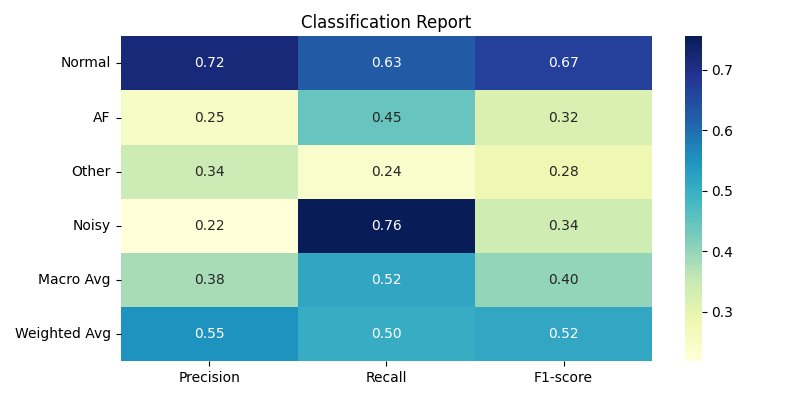
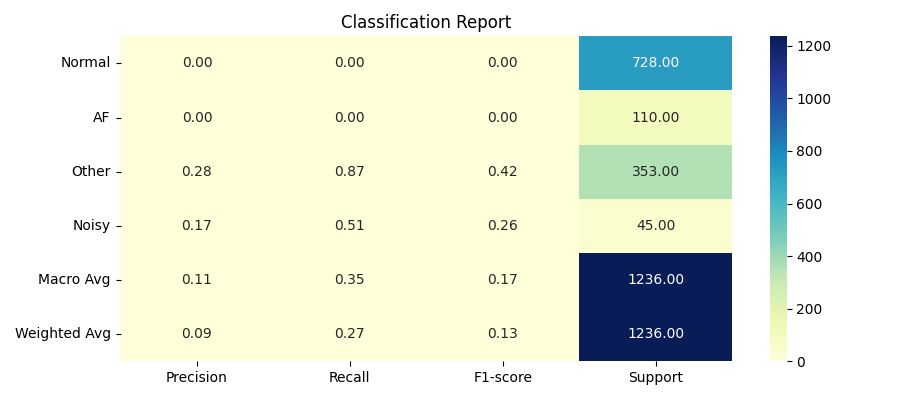
Small changes

diff --git a/Task(1.2)/metrics.py b/Task(1.2)/metrics.py
@@ -9,6 +9,7 @@ from sklearn.metrics import (
 
 
 def plot_evaluation_metric(train_metric, val_metric, metric="Accuracy"):
+    plt.figure(figsize=(10, 5))
     epochs = list(range(1, len(train_metric) + 1))
     plt.plot(epochs, train_metric, label="Train", marker="o")
     plt.plot(epochs, val_metric, label="Validation", marker="s")
@@ -25,9 +26,10 @@ def plot_evaluation_metric(train_metric, val_metric, metric="Accuracy"):
 
 
 def plot_loss(train_loss, val_loss):
+    plt.figure(figsize=(10, 5))
     epochs = list(range(1, len(train_loss) + 1))
-    plt.plot(epochs, train_loss, label="Train", marker="o")
-    plt.plot(epochs, val_loss, label="Validation", marker="s")
+    plt.plot(epochs, train_loss, label="Train")
+    plt.plot(epochs, val_loss, label="Validation")
     plt.title("Loss over Epochs")
     plt.xlabel("Epoch")
     plt.ylabel("Loss")
@@ -56,6 +58,7 @@ def plot_classification_report(y_true, y_pred, target_names):
         y_true, y_pred, target_names=target_names, output_dict=True, zero_division=0
     )
     rows = []
+    supports = []
     row_labels = []
 
     for label in target_names:
@@ -67,6 +70,7 @@ def plot_classification_report(y_true, y_pred, target_names):
                 report[label]["f1-score"],
             ]
         )
+        supports.append(report[label]["support"])
     rows.append(
         [
             report["macro avg"]["precision"],
@@ -74,6 +78,8 @@ def plot_classification_report(y_true, y_pred, target_names):
             report["macro avg"]["f1-score"],
         ]
     )
+    supports.append(report["macro avg"]["support"])
+
     rows.append(
         [
             report["weighted avg"]["precision"],
@@ -81,20 +87,31 @@ def plot_classification_report(y_true, y_pred, target_names):
             report["weighted avg"]["f1-score"],
         ]
     )
+    supports.append(report["weighted avg"]["support"])
 
     report_array = np.array(rows)
     row_labels += ["Macro Avg", "Weighted Avg"]
-    plt.figure(figsize=(8, 4))
+
+    report_array = np.hstack([report_array, np.array(supports).reshape(-1, 1)])
+
+    plt.figure(figsize=(9, 4))
     sns.heatmap(
         report_array,
         annot=True,
         cmap="YlGnBu",
         fmt=".2f",
-        xticklabels=["Precision", "Recall", "F1-score"],
+        xticklabels=["Precision", "Recall", "F1-score", "Support"],
         yticklabels=row_labels,
     )
     plt.title("Classification Report")
     plt.tight_layout()
     plt.savefig("results/classification_report.png")
-    # plt.show()
     plt.close()
+
+    # Save text version
+    with open("results/classification_report.txt", "w") as f:
+        f.write(
+            classification_report(
+                y_true, y_pred, target_names=target_names, zero_division=0
+            )
+        )

diff --git a/Task(1.2)/train.py b/Task(1.2)/train.py
@@ -131,7 +131,7 @@ def train_evaluate(
         if val_loss < best_val_loss:
             best_val_loss = val_loss
             best_model = copy.deepcopy(model.state_dict())
-            # torch.save(best_model, "best_model.pt")
+            torch.save(best_model, "best_model.pt")
             print("Saving new best model..")
         print(f"{'-'*25} End of Epoch {epoch+1} {'-'*25}")
 
@@ -144,6 +144,7 @@ def train_evaluate(
 
 
 def evaluate_best_model(model, dataloader, device, target_names=None):
+    model.to(device)
     model.eval()
     y_pred = []
     y_true = []

diff --git a/Task(1.2)/config.py b/Task(1.2)/config.py
@@ -16,7 +16,7 @@ MIN_SEQ_LEN = 500
 LEARNING_RATE = 1e-3
 BATCH_SIZE = 16
 NUM_EPOCHS = 20
-NUM_WORKERS = 4
+NUM_WORKERS = 0
 
 N_FFT = 256
 HOP_LENGTH = N_FFT // 4
